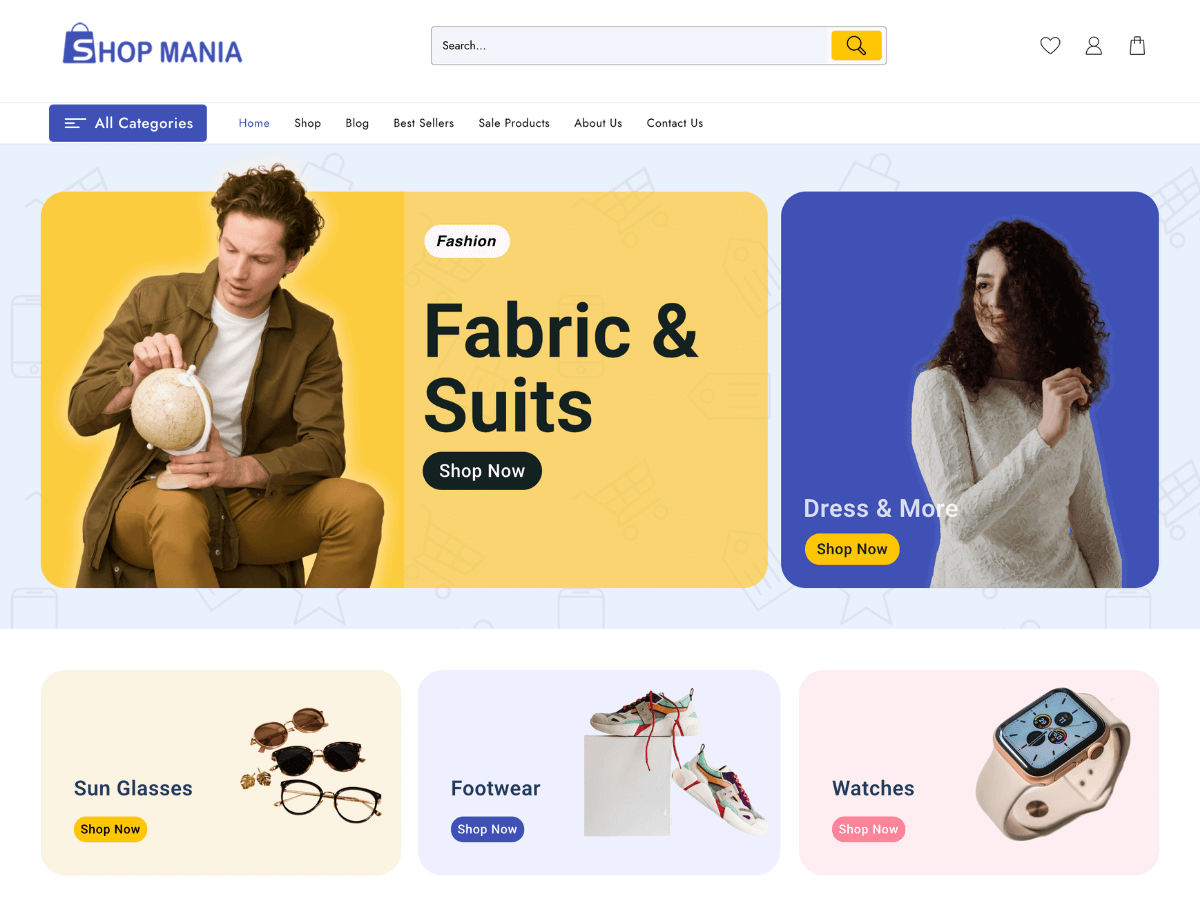
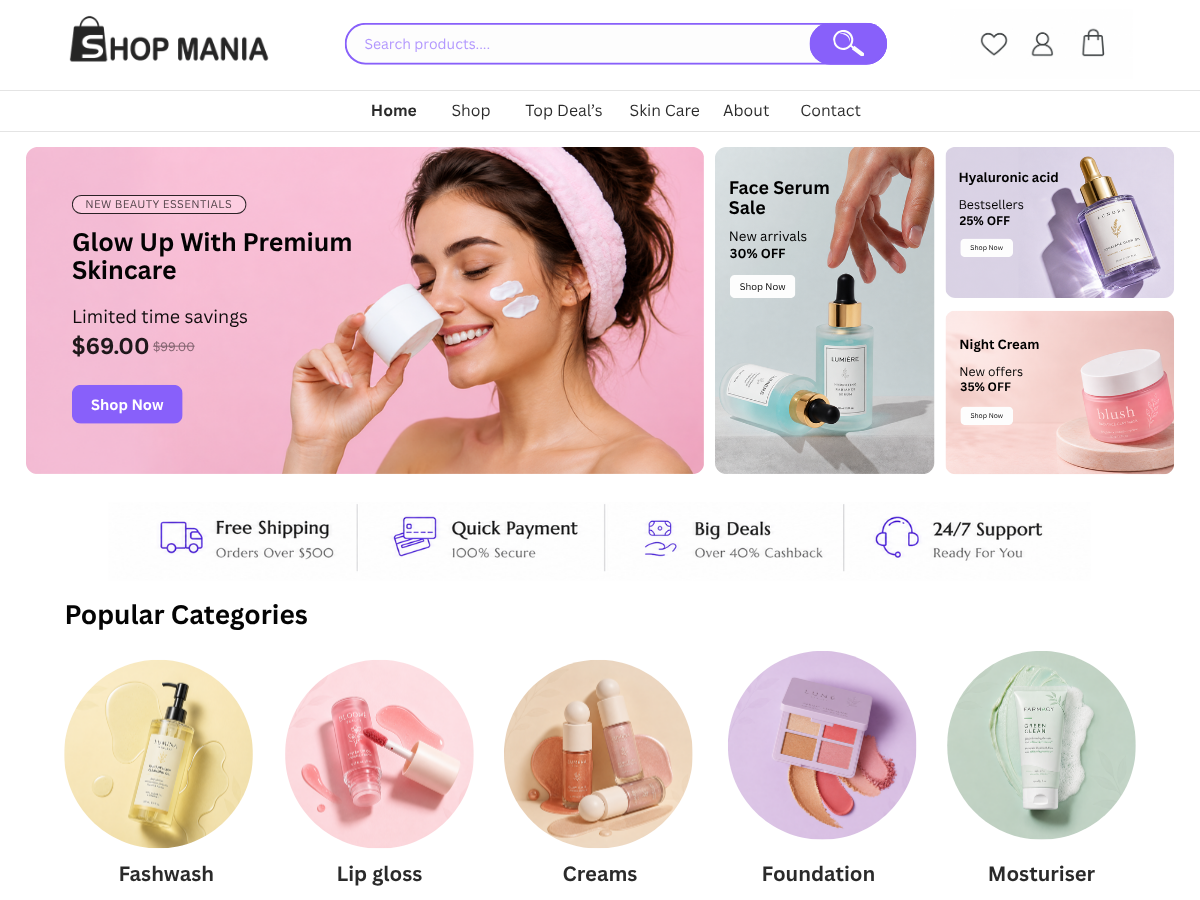
screenshot updated

diff --git a/style.css b/style.css
@@ -4,7 +4,7 @@ Theme URI: https://themehunk.com/th-shop-mania/
 Author: ThemeHunk
 Author URI: https://www.themehunk.com
 Description: Shop Mania is a modern, lightweight WooCommerce WordPress theme built for speed, flexibility, and seamless user experience. Designed with SEO optimization and AJAX technology, it ensures fast loading times and smooth, dynamic shopping without page reloads — keeping your customers engaged and boosting conversions.Compatible with page builders such as Elementor, and Gutenberg, Shop Mania is ideal for creating versatile online stores across various industries: electronics, fashion, furniture, apparel, sports gear, jewelry, cosmetics, multi-vendor marketplaces, health products, food, automotive parts, organic goods, and more.This theme boosts performance through advanced CSS variable styling and server optimization, while offering deep WooCommerce integration and support for powerful plugins. Discover everything Shop Mania has to offer and explore our powerful premium version at  https://themehunk.com/th-shop-mania
-Version: 1.8.9
+Version: 1.9.0
 Requires at least: 5.5
 Tested up to: 7.0
 Requires PHP: 5.6

diff --git a/functions.php b/functions.php
@@ -12,7 +12,7 @@
  */
 
 if ( ! function_exists( 'th_shop_mania_setup' ) ) :
-define( 'TH_SHOP_MANIA_THEME_VERSION','1.8.8');
+define( 'TH_SHOP_MANIA_THEME_VERSION','1.9.0');
 define( 'TH_SHOP_MANIA_THEME_DIR', get_template_directory() . '/' );
 define( 'TH_SHOP_MANIA_THEME_URI', get_template_directory_uri() . '/' );
 define( 'TH_SHOP_MANIA_THEME_SETTINGS', 'th-shop-mania-settings' );
